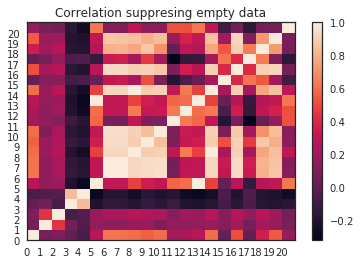
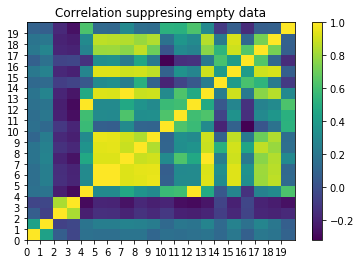
Task_01 (Revision 2)
Correction of errors in correlation, improvement of code and generation of new plots.

We must do the interpretation of the data again.

diff --git a/task_01/02corr.py b/task_01/02corr.py
@@ -25,7 +25,7 @@ for line in f1:
 	if read_header: 
 		# remove double quotes
 		row = line.replace ('"', '').split(",")
-		row.pop(0)
+        
 		if row != []:
 			cities.append(map(float, row))
 	read_header = True
@@ -37,7 +37,7 @@ for line in f2:
 	if read_header: 
 		# remove double quotes
 		row = line.replace ('"', '').split(",")
-		row.pop(0)
+        
 		if row != []:
 			cities_mean.append(map(float, row))
 	read_header = True
@@ -45,13 +45,15 @@ for line in f2:
 # plotting the correlation matrix
 #http://glowingpython.blogspot.com.es/2012/10/visualizing-correlation-matrices.html
 
+# The total number of characteristics is the same in both
+features_length =len(cities[0])
 
 R1 = corrcoef(transpose(cities))
 plt.pcolormesh(R1)
 #pcolor(R1)
 colorbar()
-yticks_r1 = yticks(arange(0,len(cities[0])),range(0,len(cities[0])))
-xticks_r1 = xticks(arange(0,len(cities[0])),range(0,len(cities[0])))
+yticks_r1 = yticks(arange(0,features_length),range(0,features_length))
+xticks_r1 = xticks(arange(0,features_length),range(0,features_length))
 plt.title('Correlation suppresing empty data')
 show()
 
@@ -59,8 +61,8 @@ R2 = corrcoef(transpose(cities_mean))
 #pcolor(R2)
 plt.pcolormesh(R2)
 colorbar()
-yticks_r2 = yticks(arange(0,len(cities_mean[0])),range(0,len(cities_mean[0])))
-xticks_r2 = xticks(arange(0,len(cities_mean[0])),range(0,len(cities_mean[0])))
+yticks_r2 = yticks(arange(0,features_length),range(0,features_length))
+xticks_r2 = xticks(arange(0,features_length),range(0,features_length))
 plt.title('Correlation with arithmetic means')
 show()
 

diff --git a/task_01/01pivot.py b/task_01/01pivot.py
@@ -9,13 +9,15 @@ Modified on Wed Sep 27 17:00:48 2017 by:
 
 import csv
 
-f = open("../data/dengue_features_train (copia).csv", 'rt')
+f = open("../data/dengue_features_train.csv", 'rt')
 city = 'sj'
 range_years = range(2004,2011)
 
 all_weeks = []
 select_weeks =[]
 arithmetic_means = []
+smoother_data_row = []
+
 heads = []
 
 total = 0
@@ -28,22 +30,23 @@ try:
     reader = csv.reader(f)
     
     for row in reader:
-        newest = row[0]
-        if newest == 'city':
+        newcity = row[0]
+        if newcity == 'city':
             # No include 'city' column (feature)
-            heads.append(row[1:3]+row[4:])
-        elif newest == city:
+            heads.append(row[4:])
+        
+        elif newcity == city:
             if ( int(row[1]) in range_years ):      
-                all_weeks.append(row[1:3]+row[4:])
+                all_weeks.append(row[4:])
                 
                 if not ('' in row):
                     # No include 'city' column (feature) and 
                     # rows whit any empty feature
-                    select_weeks.append(row[1:3]+row[4:])
+                    select_weeks.append(row[4:])
                     total_in += 1
                 else:
                     total_out += 1
-                    smoother_data_row.append(row[1:3]+row[4:])
+                    smoother_data_row.append(row[4:])
                     #examples.append(total_in+total_out+1)
                     
 finally:

diff --git a/task_01/03pca.py b/task_01/03pca.py
@@ -27,7 +27,6 @@ for line in f1:
     if read_header: 
             # remove double quotes
         row = line.replace ('"', '').split(",")
-        row.pop(0)
         
         if row != []:
             data = [float(el) for el in row]
@@ -44,7 +43,6 @@ for line in f2:
     if read_header: 
         # remove double quotes
         row = line.replace ('"', '').split(",")
-        row.pop(0)
         
         if row != []:
             data = [float(el) for el in row]
@@ -83,7 +81,7 @@ plt.title('PCA suppresing empty data.\nEstimation ratio: {}'
           .format(estimator_from_selected.explained_variance_ratio_))
 plt.xlim(-1.2, 2)
 plt.ylim(-1.2, 2)
-ax[0].grid(True)
+plt.grid(True)
 fig.tight_layout()
 
 plt.subplot(2,1,2)
@@ -94,7 +92,7 @@ plt.title('PCA with arithmetic means.\nEstimation ratio: {}'
           .format(estimator_from_means.explained_variance_ratio_))
 plt.xlim(-1.2, 2)
 plt.ylim(-1.2, 2)
-ax[1].grid(True)
+plt.grid(True)
 fig.tight_layout()
 
 plt.show()

diff --git a/README.md b/README.md
@@ -4,60 +4,3 @@
     - GONZALO PEREZ FERNANDEZ.
     - GREGORIO BALDOMERO PATINO ESTEO.
     - SERGIO FERNANDEZ GARCIA.
-
-## Task 01
-
-#### 1. Data extract:
-
-Before starting to data recovery which have been selected, we are willing to analyze different features, considering that goals of the tasks are the existent correlation between them.
-
-We have chosen to delete two features for the correlation analyze and PCA calculation, (1) “city” y “week_start_date”, deb to it doesn’t provide relevant information about data correlation.
-
-In the follow list we are going to show existent features:
-
-|  |  |
-| -- | -- |
-| 1. city. | 13. reanalysis_max_air_temp_k. |
-| 2. year. | 14. reanalysis_min_air_temp_k. |
-| 3. Weekofyear. | 15. reanalysis_precip_amt_kg_per_m2. |
-| 4. week_start_date. | 16. reanalysis_relative_humidity_percent. |
-| 5. ndvi_ne. | 17. reanalysis_sat_precip_amt_mm. |
-| 6. ndvi_nw. | 18. reanalysis_specific_humidity_g_per_kg. |
-| 7. ndvi_se. | 19. reanalysis_tdtr_k. |
-| 8. ndvi_sw. | 20. station_avg_temp_c. |
-| 9. precipitation_amt_mm. | 21. station_diur_temp_rng_c. |
-| 10. reanalysis_air_temp_k. | 22. station_max_temp_c. |
-| 11. reanalysis_avg_temp_k. | 23. station_min_temp_c. |
-| 12. reanalysis_dew_point_temp_k. | 24. station_precip_mm. |
-
-For the data extraction we have selected the proportionated scripts which we have adapted to specification: City of ‘San Juan’, denoted to ‘sj’, years between 2004 and 2010, including both.
-We have focused the extraction by two ways:
-
-1. If the exemple (row) have some areas without information, it will be deleted and we pass to the next.
-2. We accept all examples inside data target, if there are some features without data, it will be completed with the middle calculated before.
-3. In case of there are a lot of missed results at the before spots, we have chosen to save examples which we deleted in spot (1), to realize a meticulous analysis, studying tendencies and realizing a data smoothing trying to adjust the new values best possible.
-
-## 2) Extract the correlation among features and obtain conclusions.
-
-Considering that the name of the different features, a priori, It is easy to see existent difference between correlation types of features, the most positives and nearby to 1, for example “reanalysis_avg_temp_k” with “reanalysis_sat_precip_amt_mm”.
-
-With the different approaches we can see few visual difference in the grade of correlation features.
-![Correlation 1.1][1]  ![Correlation 2.1][2]
-![Correlation 1.2][3]  ![Correlation 2.2][4]
-
-[1]: https://github.com/grego1201/MACHINE-LEARNING-TECHNIQUES/blob/master/task_01/imges/Correlation_suppresing_empty_data_01.png?raw=true
-[2]: https://github.com/grego1201/MACHINE-LEARNING-TECHNIQUES/blob/master/task_01/imges/Correlation_with_arithmetic_means_01.png?raw=true
-[3]: https://github.com/grego1201/MACHINE-LEARNING-TECHNIQUES/blob/master/task_01/imges/Correlation_suppresing_empty_data_02.png?raw=true
-[4]: https://github.com/grego1201/MACHINE-LEARNING-TECHNIQUES/blob/master/task_01/imges/Correlation_with_arithmetic_means_02.png?raw=true
-
-We can see how features [ndvi_nw, ndvi_se] don’t have too much correlation, meanwhile features [reanalysis_air_temp_k, reanalysis_avg_temp_k, reanalysis_dew_point_temp_k,reanalysis_max_air_temp_k] have too much correlation. Also, we can obvserve how [reanalysis_sat_precip_amt_mm, reanalysis_tdtr_k, station_diur_temp_rng_c, station_max_temp_c] have high correlation. The rest of features have some correlation but not so much.
-
-## 3) Execute PCA and plot the results
-It can be observed how everyone is so close but it can appreciate week’s (22 – 2004) and (6 – 2005) are the most unequal (outlier) and some group of them like weeks (2007-44), (47 – 2004), (2004 – 52).
-
-![PCA](https://github.com/grego1201/MACHINE-LEARNING-TECHNIQUES/blob/master/task_01/imges/PCA.png?raw=true)
-
-## Experience
-However, if we can understand the finality of task and steps which we should take it to obtain results which are a great support, if we do not have enough knowledge about correlation concepts and which is the utility about calculate the “Principal component analysis (PCA)” we can’t make a good interpretation.
-Our experience has some ups and downs because at the beginning of the session we did it with a lot of enthusiasm, thinking that it will be easy, but when we thought we had finished some problems appears, like discriminate some data, which we started to work it.
-

diff --git a/task_01/README.md b/task_01/README.md
@@ -1,0 +1,56 @@
+## Task 01
+
+#### 1. Data extract:
+
+Before starting to data recovery which have been selected, we are willing to analyze different features, considering that goals of the tasks are the existent correlation between them.
+
+We have chosen to delete two features for the correlation analyze and PCA calculation, (1) “city” y “week_start_date”, deb to it doesn’t provide relevant information about data correlation.
+
+In the follow list we are going to show existent features:
+
+|  |  |
+| -- | -- |
+| 1. city. | 13. reanalysis_max_air_temp_k. |
+| 2. year. | 14. reanalysis_min_air_temp_k. |
+| 3. Weekofyear. | 15. reanalysis_precip_amt_kg_per_m2. |
+| 4. week_start_date. | 16. reanalysis_relative_humidity_percent. |
+| 5. ndvi_ne. | 17. reanalysis_sat_precip_amt_mm. |
+| 6. ndvi_nw. | 18. reanalysis_specific_humidity_g_per_kg. |
+| 7. ndvi_se. | 19. reanalysis_tdtr_k. |
+| 8. ndvi_sw. | 20. station_avg_temp_c. |
+| 9. precipitation_amt_mm. | 21. station_diur_temp_rng_c. |
+| 10. reanalysis_air_temp_k. | 22. station_max_temp_c. |
+| 11. reanalysis_avg_temp_k. | 23. station_min_temp_c. |
+| 12. reanalysis_dew_point_temp_k. | 24. station_precip_mm. |
+
+For the data extraction we have selected the proportionated scripts which we have adapted to specification: City of ‘San Juan’, denoted to ‘sj’, years between 2004 and 2010, including both.
+We have focused the extraction by two ways:
+
+1. If the exemple (row) have some areas without information, it will be deleted and we pass to the next.
+2. We accept all examples inside data target, if there are some features without data, it will be completed with the middle calculated before.
+3. In case of there are a lot of missed results at the before spots, we have chosen to save examples which we deleted in spot (1), to realize a meticulous analysis, studying tendencies and realizing a data smoothing trying to adjust the new values best possible.
+
+## 2) Extract the correlation among features and obtain conclusions.
+
+Considering that the name of the different features, a priori, It is easy to see existent difference between correlation types of features, the most positives and nearby to 1, for example “reanalysis_avg_temp_k” with “reanalysis_sat_precip_amt_mm”.
+
+With the different approaches we can see few visual difference in the grade of correlation features.
+![Correlation 1.1][1]  ![Correlation 2.1][2]
+![Correlation 1.2][3]  ![Correlation 2.2][4]
+
+[1]: https://github.com/grego1201/MACHINE-LEARNING-TECHNIQUES/blob/master/task_01/imges/Correlation_suppresing_empty_data_01.png?raw=true
+[2]: https://github.com/grego1201/MACHINE-LEARNING-TECHNIQUES/blob/master/task_01/imges/Correlation_with_arithmetic_means_01.png?raw=true
+[3]: https://github.com/grego1201/MACHINE-LEARNING-TECHNIQUES/blob/master/task_01/imges/Correlation_suppresing_empty_data_02.png?raw=true
+[4]: https://github.com/grego1201/MACHINE-LEARNING-TECHNIQUES/blob/master/task_01/imges/Correlation_with_arithmetic_means_02.png?raw=true
+
+We can see how features [ndvi_nw, ndvi_se] don’t have too much correlation, meanwhile features [reanalysis_air_temp_k, reanalysis_avg_temp_k, reanalysis_dew_point_temp_k,reanalysis_max_air_temp_k] have too much correlation. Also, we can obvserve how [reanalysis_sat_precip_amt_mm, reanalysis_tdtr_k, station_diur_temp_rng_c, station_max_temp_c] have high correlation. The rest of features have some correlation but not so much.
+
+## 3) Execute PCA and plot the results
+It can be observed how everyone is so close but it can appreciate week’s (22 – 2004) and (6 – 2005) are the most unequal (outlier) and some group of them like weeks (2007-44), (47 – 2004), (2004 – 52).
+
+![PCA](https://github.com/grego1201/MACHINE-LEARNING-TECHNIQUES/blob/master/task_01/imges/PCA.png?raw=true)
+
+## Experience
+However, if we can understand the finality of task and steps which we should take it to obtain results which are a great support, if we do not have enough knowledge about correlation concepts and which is the utility about calculate the “Principal component analysis (PCA)” we can’t make a good interpretation.
+Our experience has some ups and downs because at the beginning of the session we did it with a lot of enthusiasm, thinking that it will be easy, but when we thought we had finished some problems appears, like discriminate some data, which we started to work it.
+
